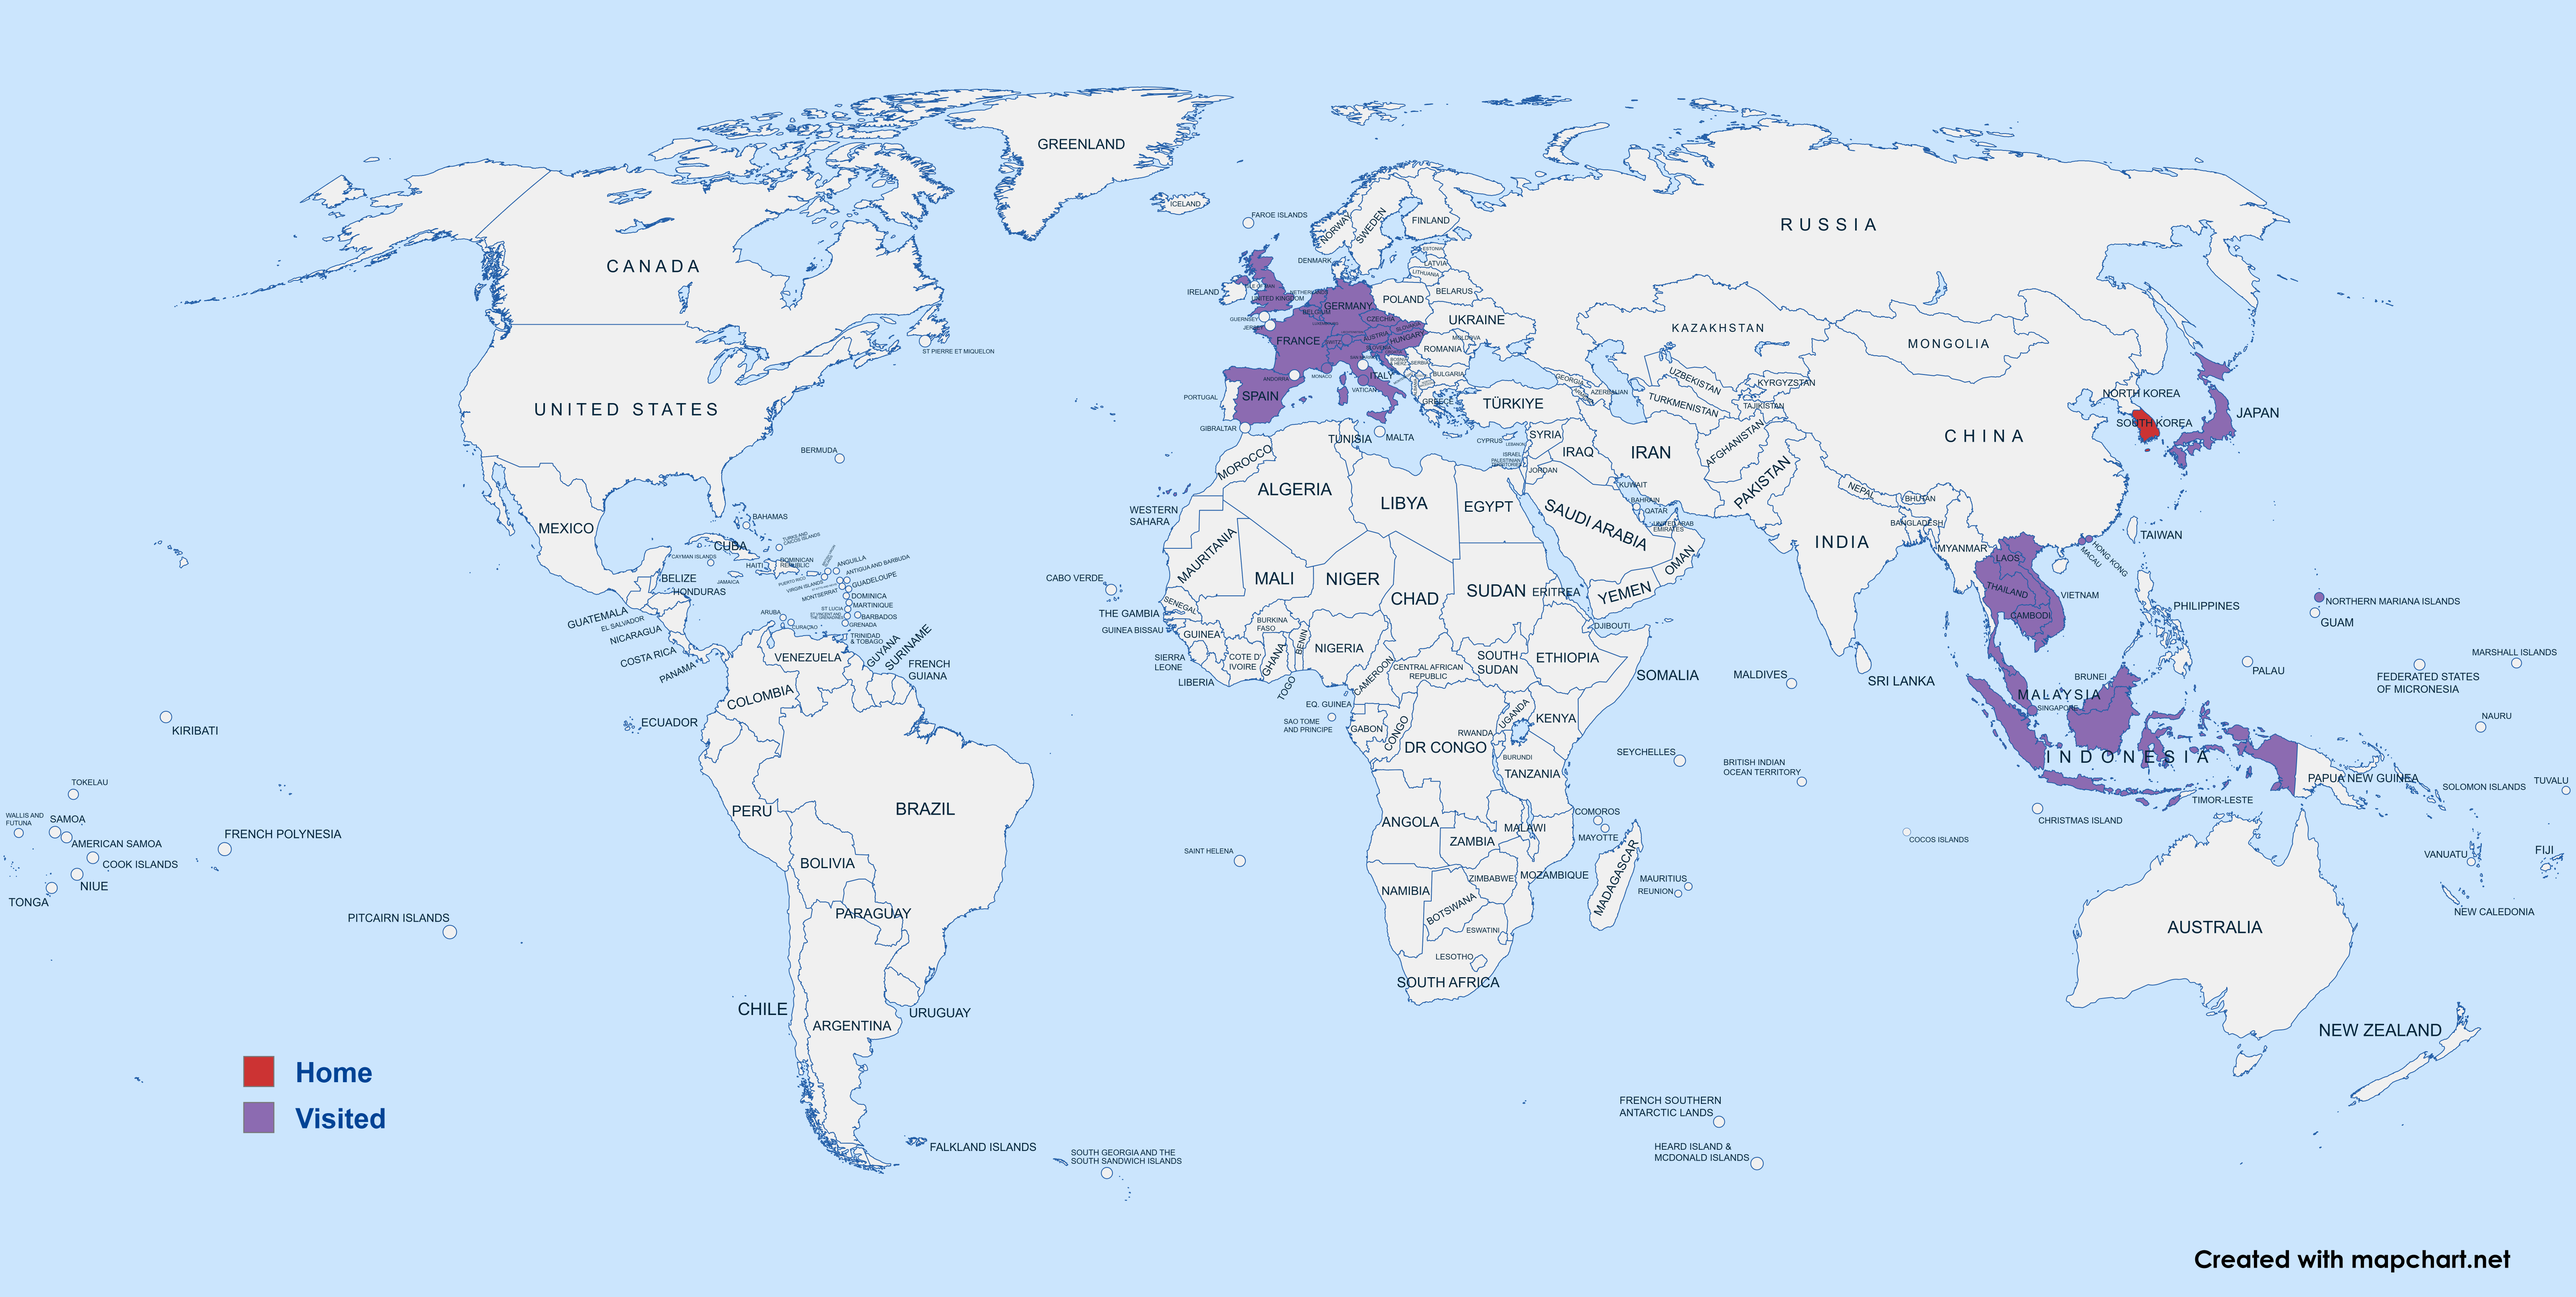
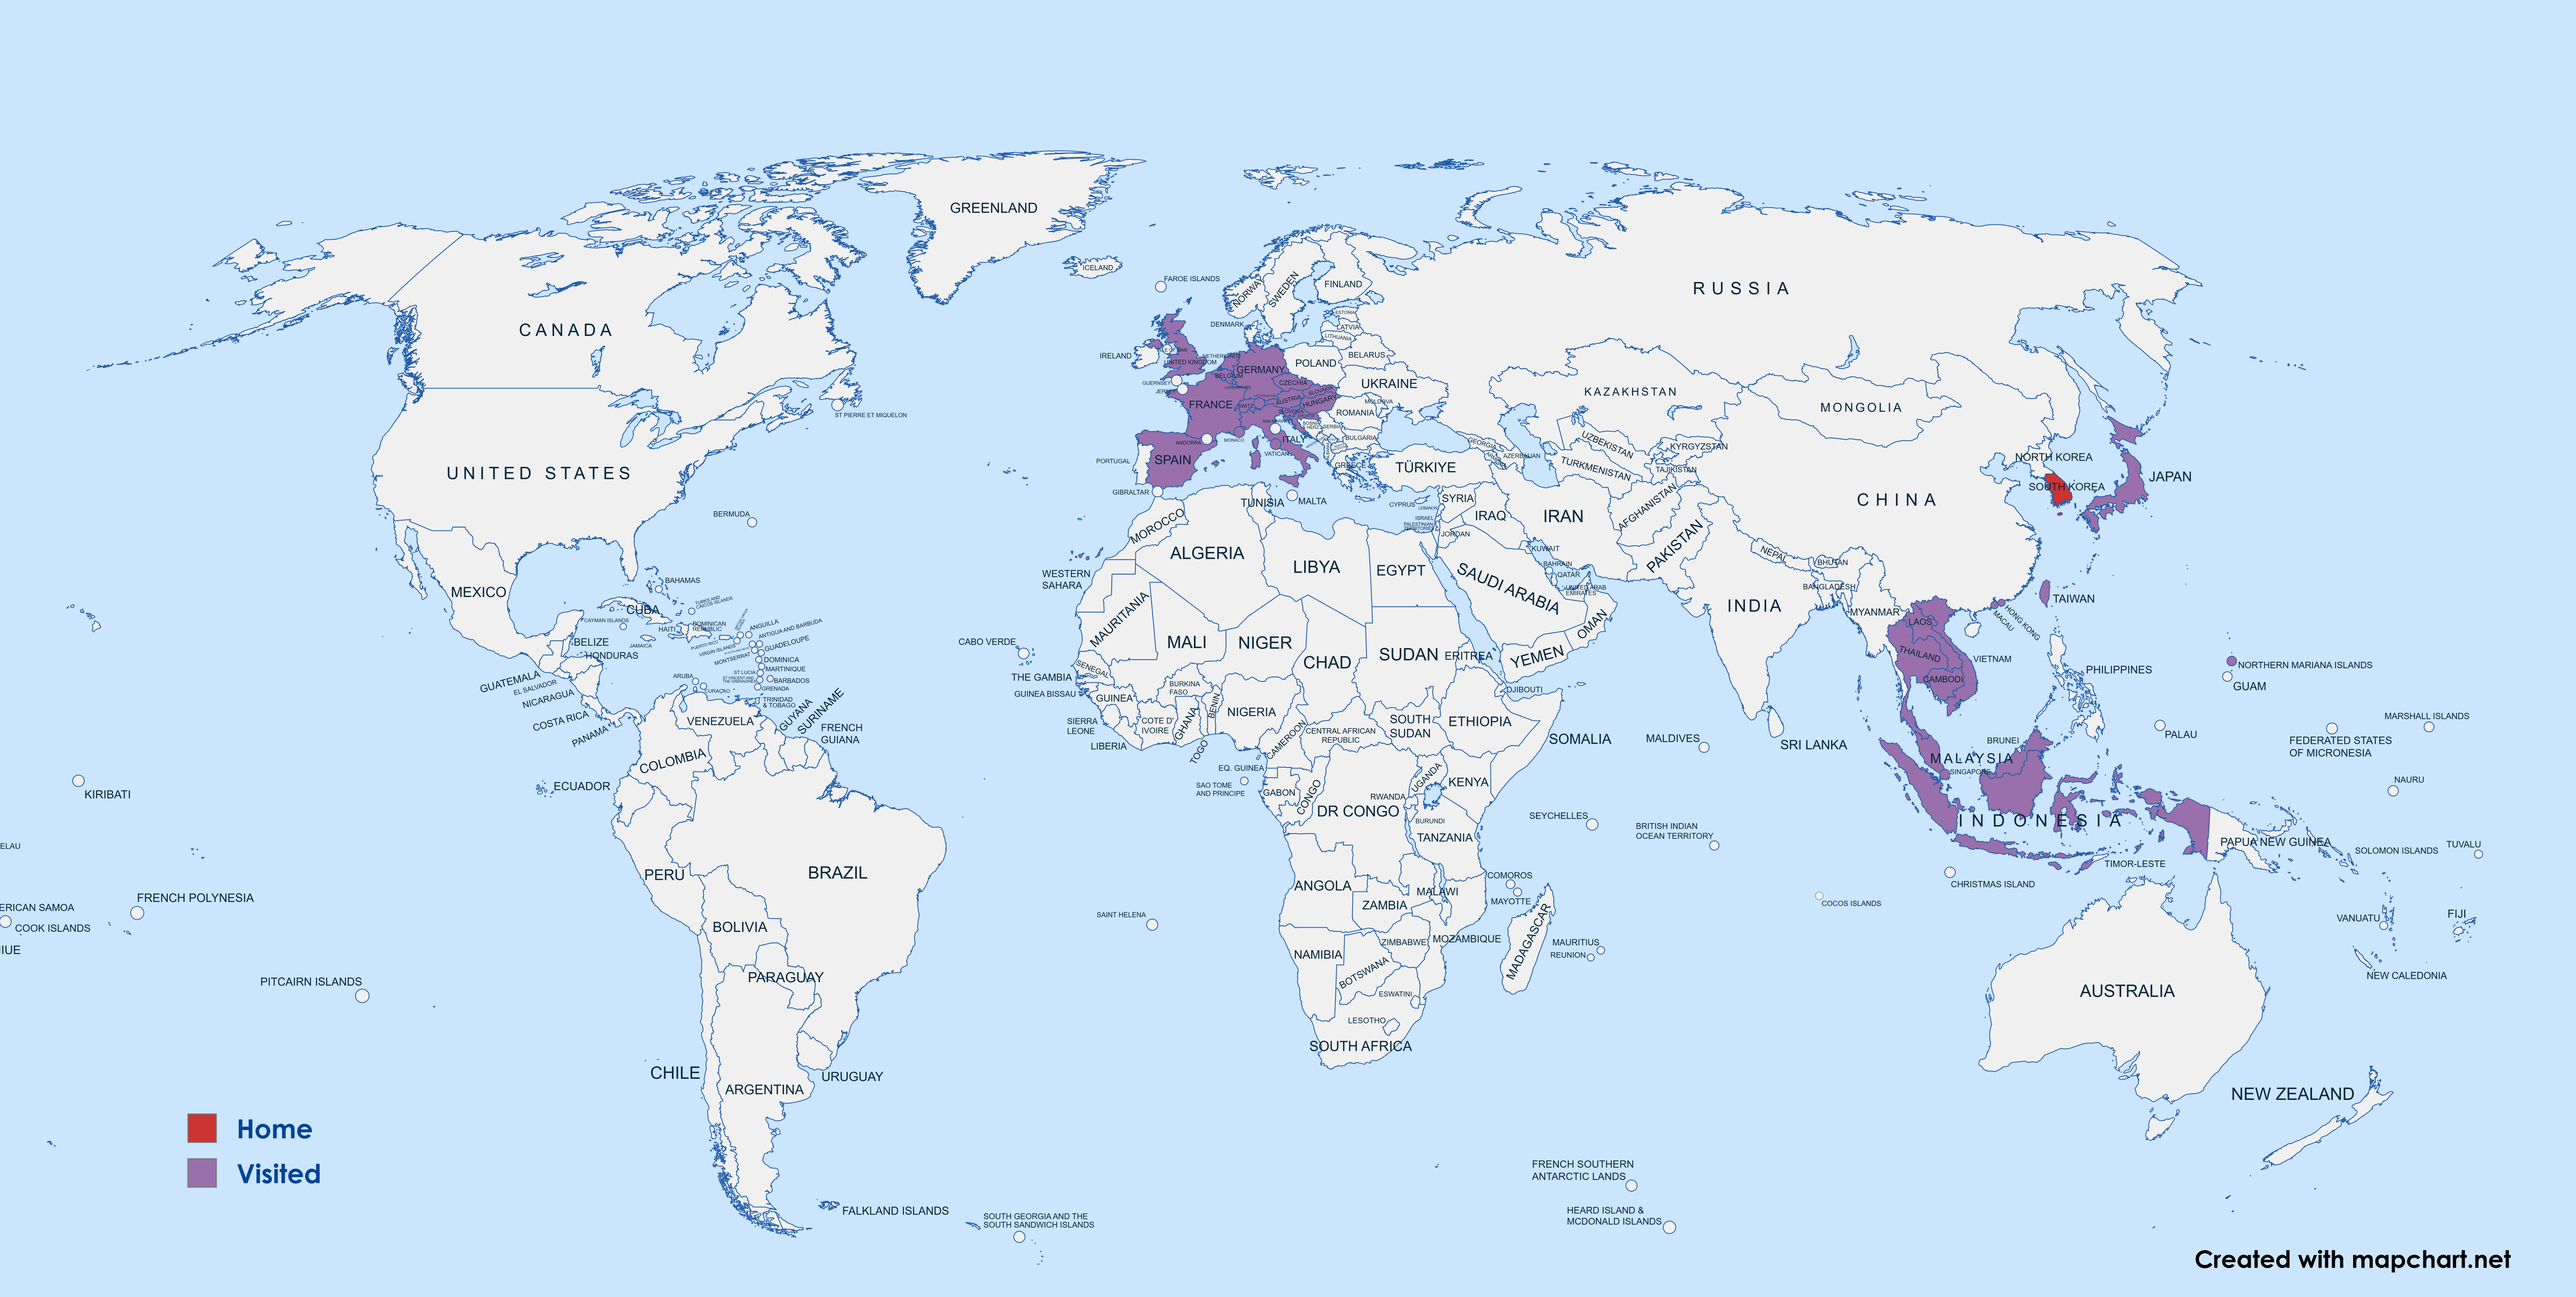
MOD theme

diff --git a/_sass/minimal-mistakes/_archive.scss b/_sass/minimal-mistakes/_archive.scss
@@ -34,7 +34,7 @@
 .archive__subtitle {
   margin: 1.414em 0 0.5em;
   padding-bottom: 0.5em;
-  font-size: $type-size-5;
+  font-size: $type-size-4; // Default: $type-size-5
   color: $muted-text-color;
   border-bottom: 1px solid $border-color;
 
@@ -124,7 +124,7 @@
 .list__item {
   .page__meta {
     margin: 0 0 4px;
-    font-size: 0.6em;
+    font-size: $type-size-7; // Default: 0.6em
   }
 }
 
@@ -194,7 +194,7 @@
 
   .page__meta {
     margin: 0 0 4px;
-    font-size: 0.6em;
+    font-size: $type-size-7; // Default: 0.6em
   }
 
   .page__meta-sep {

diff --git a/_layouts/default.html b/_layouts/default.html
@@ -45,7 +45,12 @@
     {% endif %}
 
     <aside class="sidebar__top">
-      <a href="#site-nav"> <i class="fas fa-angle-double-up fa-2x" title="Back to Top"></i></a>
+      <a href="#site-nav">
+        <span class='fa-stack fa-2x'>
+          <i class='fa fa-circle fa-stack-2x'></i>
+          <i class='fa fa-angle-double-up fa-stack-1x fa-inverse' title="Back to Top"></i>
+        </span>
+      </a>
     </aside>
     <div id="footer" class="page__footer">
       <footer>

diff --git a/_sass/minimal-mistakes/_page.scss b/_sass/minimal-mistakes/_page.scss
@@ -91,6 +91,7 @@ body {
 
 	h1, h2, h3, h4, h5, h6 {
 		.header-link {
+      display: none;  // Hide by default
 			position: relative;
 			inset-inline-start: 0.5em;
 			opacity: 0;
@@ -384,7 +385,7 @@ body {
   grid-template-columns: repeat(2, 1fr);
   margin: 1.414em 0;
   padding: 0;
-  font-size: 0.75em;
+  font-size: 0.95em; // Default: 0.75em
   list-style: none;
 
   @include breakpoint($large) {

diff --git a/_portfolio/breaks.md b/_portfolio/breaks.md
@@ -10,7 +10,7 @@ toc_label: "Career Breaks"
 
 ### East Asia
 
-May 2025, Jun. 2025
+May 2025, Jun. 2025, Aug. 2025
 
 - SARs of China
     - :hong_kong: Hong Kong
@@ -20,6 +20,9 @@ May 2025, Jun. 2025
     - :jp: Tokyo
     - :jp: Asahikawa
     - :jp: Wakkanai
+
+- Taiwan
+    - :taiwan: Taipei
 
 ### Mainland Southeast Asia
 

diff --git a/_portfolio/awards.md b/_portfolio/awards.md
@@ -77,6 +77,6 @@ toc_label: "Honors & Awards"
 ### Academic Honors
 
 *Yonsei University*
-<br>Feb. 2024 and Aug. 2022
+<br>Aug. 2022, Feb. 2024
 
-- Fall Semester of 2023 and Spring Semester of 2022.
+- Spring Semester of 2022 and Fall Semester of 2023.

diff --git a/_pages/blog.md b/_pages/blog.md
@@ -1,0 +1,6 @@
+---
+title: "Blog"
+permalink: /categories/
+layout: categories
+toc: false
+---
